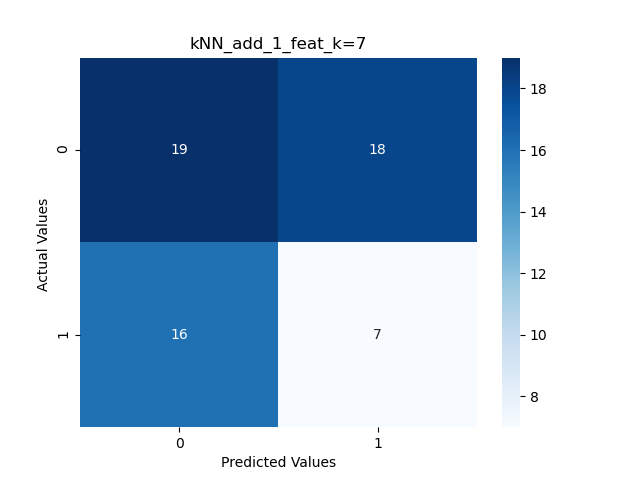
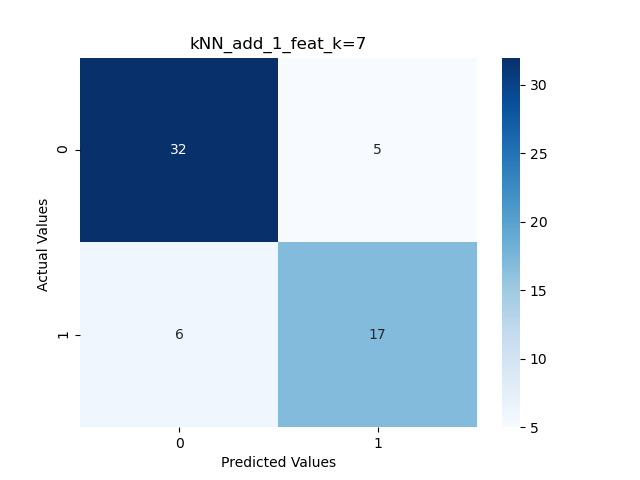
revise add feat

diff --git a/utils/Add_feat.py b/utils/Add_feat.py
@@ -1,43 +1,30 @@
 from statistics import mean
 import pandas as pd
 
-def Add_feat(X_tr1, X_tr2, X_test1, X_test2):
-    mean_Ws1_tr, mean_Ws2_tr = [0,0,0], [0,0,0]
-    mean_Ws1_test, mean_Ws2_test = [0,0,0], [0,0,0]
-    for i in range(3, X_tr1.shape[0]-3):
-        mean_Ws1_tr.append(mean(X_tr1['Ws'][i-3:i]))
-        mean_Ws2_tr.append(mean(X_tr2['Ws'][i-3:i]))
+def Add_feat(X_tr, X_test):
+    mean_Ws_tr = [0,0,0,0]
+    mean_Ws_test = [0,0,0,0]
+    for i in range(4, X_tr.shape[0]-4):
+        mean_Ws_tr.append(mean(X_tr['Ws'][i-4:i]))
 
-    for i in range(3, X_test1.shape[0]):
-        mean_Ws1_test.append(mean(X_test1['Ws'][i-3:i]))
-        mean_Ws2_test.append(mean(X_test2['Ws'][i-3:i]))
+    for i in range(4, X_test.shape[0]):
+        mean_Ws_test.append(mean(X_test['Ws'][i-4:i]))
 
-    mean_Ws1_tr.extend([0,0,0])
-    mean_Ws2_tr.extend([0,0,0])
+    mean_Ws_tr.extend([0,0,0,0])
 
-    mean_Ws1_test[0] = sum(X_tr1['Ws'][-3:])/3
-    mean_Ws2_test[0] = sum(X_tr2['Ws'][-3:])/3
-    mean_Ws1_test[1] = (sum(X_tr1['Ws'][-2:])+X_test1['Ws'][0])/3
-    mean_Ws2_test[1] = (sum(X_tr2['Ws'][-2:])+X_test2['Ws'][0])/3
-    mean_Ws1_test[2] = (X_tr1['Ws'][X_tr1.shape[0]-1]+sum(X_test1['Ws'][:2]))/3
-    mean_Ws2_test[2] = (X_tr2['Ws'][X_tr2.shape[0]-1]+sum(X_test2['Ws'][:2]))/3
-
-    X_tr1['mean_Ws'] = mean_Ws1_tr
-    X_tr2['mean_Ws'] = mean_Ws2_tr
-    X_test1['mean_Ws'] = mean_Ws1_test
-    X_test2['mean_Ws'] = mean_Ws2_test
-
-    X_tr1 = X_tr1.drop(X_tr1.index[:3])
-    X_tr1 = X_tr1.drop(X_tr1.index[-3:])
-
-    X_tr2 = X_tr2.drop(X_tr2.index[:3])
-    X_tr2 = X_tr2.drop(X_tr2.index[-3:])
+    X_test = X_test.reset_index(drop=True)
+    mean_Ws_test[0] = sum(X_tr['Ws'].iloc[-4:])/4
+    mean_Ws_test[1] = (sum(X_tr['Ws'].iloc[-3:])+X_test['Ws'].iloc[0])/4
+    mean_Ws_test[2] = (sum(X_tr['Ws'].iloc[-2:])+sum(X_test['Ws'].iloc[:2]))/4
+    mean_Ws_test[3] = (X_tr['Ws'].iloc[X_tr.shape[0]-1]+sum(X_test['Ws'].iloc[:3]))/4
     
-    X_tr1 = X_tr1.reset_index(drop=True)
-    X_tr2 = X_tr2.reset_index(drop=True)
+    X_tr = X_tr.assign(mean_Ws = mean_Ws_tr)
+    X_test = X_test.assign(mean_Ws = mean_Ws_test)
     
-    X_tr = pd.concat([X_tr1, X_tr2])
-    X_test = pd.concat([X_test1, X_test2])
+    X_tr = X_tr.drop(X_tr.index[:4])
+    X_tr = X_tr.drop(X_tr.index[-4:])
+
+    X_tr = X_tr.reset_index(drop=True)
 
     return X_tr, X_test
 

diff --git a/perceptron.py b/perceptron.py
@@ -5,7 +5,6 @@ from statistics import mean
 
 from utils.read_data import read_data
 from utils.metrics import metrics
-from utils.Sep_region import Sep_region
 from utils.Add_feat import Add_feat
 
 from sklearn.preprocessing import MinMaxScaler, StandardScaler
@@ -175,21 +174,18 @@ def main():
         print("Test F1_score=", F1_score, "Test Accuracy=", Accuracy)
 
     else:
-        X_val, y_val = X_tr.iloc[:46], y_tr.iloc[:46]
-        X_tr_prime, y_tr_prime = X_tr.iloc[46:], y_tr.iloc[46:]
+        X_val, y_val = X_tr.iloc[-46:], y_tr.iloc[-46:]
+        X_tr_prime, y_tr_prime = X_tr.iloc[:-46], y_tr.iloc[:-46]
          # Shuffle
         N = X_tr_prime.shape[0] 
         idx = np.arange(N)
         D = X_tr_prime.shape[1]
         w, it, lr, not_linearly_separable, correctly_classified, w_vec, J_vec \
                                                                 = init_train_param(D)
-        X_tr_p1, X_tr_p2, y_tr_p1, y_tr_p2, X_val1, X_val2 = \
-                                            Sep_region(X_tr_prime, y_tr_prime, X_val)
-        X_tr_prime, X_val = Add_feat(X_tr_p1, X_tr_p2, X_val1, X_val2)
+        X_tr_prime, X_val = Add_feat(X_tr_prime, X_val)
         # drop first column ("Date" feature)
         X_tr_prime, X_val = X_tr_prime.iloc[:,1:], X_val.iloc[:,1:]
-        y_tr_p1, y_tr_p2 = y_tr_p1[3:-3], y_tr_p2[3:-3]
-        y_tr_prime = y_tr_p1 + y_tr_p2
+        y_tr_prime = y_tr_prime[4:-4]
         
         if args.use_SMOTE:
                 X_tr_prime, y_tr_prime = sm.fit_resample(X_tr_prime, y_tr_prime)
@@ -203,12 +199,10 @@ def main():
         print("Val F1_score=", F1_score, "Val Accuracy=", Accuracy)
 
         print("Training with full dataset!")
-        X_tr1, X_tr2, y_tr1, y_tr2, X_test1, X_test2 = Sep_region(X_tr, y_tr, X_test)
-        X_tr, X_test = Add_feat(X_tr1, X_tr2, X_test1, X_test2)
+        X_tr, X_test = Add_feat(X_tr, X_test)
         # drop first column ("Date" feature)
         X_tr, X_test = X_tr.iloc[:,1:], X_test.iloc[:,1:]
-        y_tr1, y_tr2 = y_tr1[3:-3], y_tr2[3:-3]
-        y_tr = y_tr1 + y_tr2
+        y_tr = y_tr[4:-4]
         w, it, lr, not_linearly_separable, correctly_classified, w_vec, J_vec \
                                                                     = init_train_param(D)
         if args.use_SMOTE:

diff --git a/kNN.py b/kNN.py
@@ -5,7 +5,6 @@ import pandas as pd
 
 from utils.read_data import read_data
 from utils.metrics import metrics
-from utils.Sep_region import Sep_region
 from utils.Add_feat import Add_feat
 
 from sklearn.preprocessing import StandardScaler
@@ -63,15 +62,12 @@ def main():
         F1_score, Accuracy = metrics(y_test, y_test_pred, args.plot_title+'_k='+str(args.k))
         print("Test F1_score=", F1_score, "Test Accuracy=", Accuracy)
     else:
-        X_val, y_val = X_tr.iloc[:46], y_tr.iloc[:46]
-        X_tr_prime, y_tr_prime = X_tr.iloc[46:], y_tr.iloc[46:]
-        X_tr_p1, X_tr_p2, y_tr_p1, y_tr_p2, X_val1, X_val2 = \
-                                            Sep_region(X_tr_prime, y_tr_prime, X_val)
-        X_tr_prime, X_val = Add_feat(X_tr_p1, X_tr_p2, X_val1, X_val2)
+        X_val, y_val = X_tr.iloc[-46:], y_tr.iloc[-46:]
+        X_tr_prime, y_tr_prime = X_tr.iloc[:-46], y_tr.iloc[:-46]
+        X_tr_prime, X_val = Add_feat(X_tr_prime, X_val)
         # drop first column ("Date" feature)
         X_tr_prime, X_val = X_tr_prime.iloc[:,1:], X_val.iloc[:,1:]
-        y_tr_p1, y_tr_p2 = y_tr_p1[3:-3], y_tr_p2[3:-3]
-        y_tr_prime = y_tr_p1 + y_tr_p2
+        y_tr_prime = y_tr_prime[4:-4]
         if args.use_SMOTE:
                 X_tr_prime, y_tr_prime = sm.fit_resample(X_tr_prime, y_tr_prime)
         X_tr_prime = scaler.fit_transform(X_tr_prime)
@@ -82,12 +78,10 @@ def main():
         print("Val F1_score=", F1_score, "Val Accuracy=", Accuracy)
 
         print("Training with full dataset!")
-        X_tr1, X_tr2, y_tr1, y_tr2, X_test1, X_test2 = Sep_region(X_tr, y_tr, X_test)
-        X_tr, X_test = Add_feat(X_tr1, X_tr2, X_test1, X_test2)
+        X_tr, X_test = Add_feat(X_tr, X_test)
         # drop first column ("Date" feature)
         X_tr, X_test = X_tr.iloc[:,1:], X_test.iloc[:,1:]
-        y_tr1, y_tr2 = y_tr1[3:-3], y_tr2[3:-3]
-        y_tr = y_tr1 + y_tr2
+        y_tr = y_tr[4:-4]
         if args.use_SMOTE:
                 X_tr, y_tr = sm.fit_resample(X_tr, y_tr)
         X_tr = scaler.fit_transform(X_tr)

diff --git a/README.md b/README.md
@@ -1,5 +1,4 @@
 # EE559_Project
-## Project Update
 - 2-class problem
 
 - Dataset (# data pts.)
@@ -60,10 +59,10 @@
     - Test Accuracy: (0.9167, 0.95, 0.8, 0.7167)
 
     `python3 perceptron.py --standardization --use_SMOTE --extra_feat --plot_title p_add_1_feat` 
-    - Val F1-score: 0.8667
-    - Val Accuracy: 0.913
-    - Test F1-score: 0.7419
-    - Test Accuracy: 0.7333
+    - Val F1-score: 0.9882
+    - Val Accuracy: 0.9783
+    - Test F1-score: 0.8846
+    - Test Accuracy: 0.9
 
 - Technique 2: KNN Classifier (Drop "Date", with Standardization)\
     `python3 kNN.py --M 4 --k 7 --plot_title kNN`
@@ -88,10 +87,10 @@
     - Test Accuracy: (0.7833, 0.7833, 0.7833, 0.75)
 
     `python3 kNN.py --extra_feat --plot_title kNN_add_1_feat` 
-    - Val F1-score: 0.4615
-    - Val Accuracy: 0.6957
-    - Test F1-score: 0.2917
-    - Test Accuracy: 0.4333
+    - Val F1-score: 0.9767
+    - Val Accuracy: 0.9565
+    - Test F1-score: 0.7555
+    - Test Accuracy: 0.8167
 
 - Technique 3: MSE Classifier (Drop "Date")\
     `python3 MSE.py --use_SMOTE --plot_title p_MSE_SMOTE` (b=1 for all data pts)
